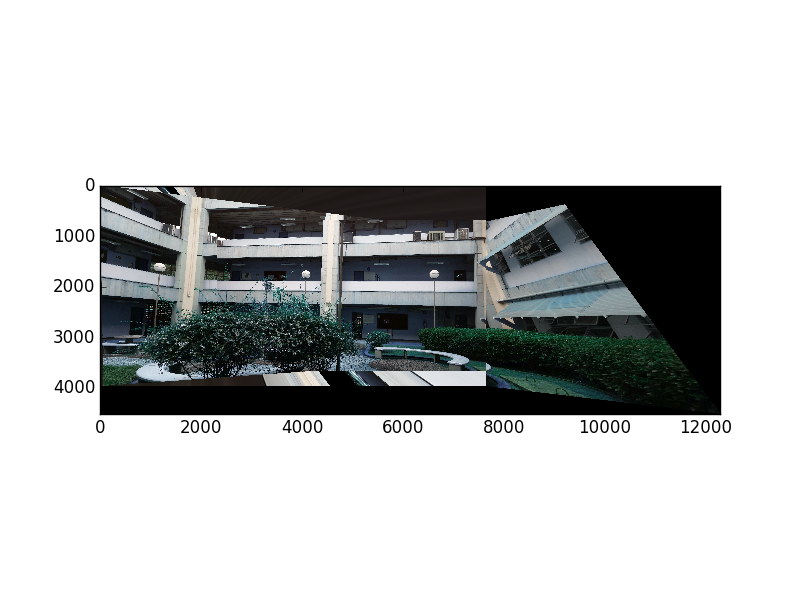
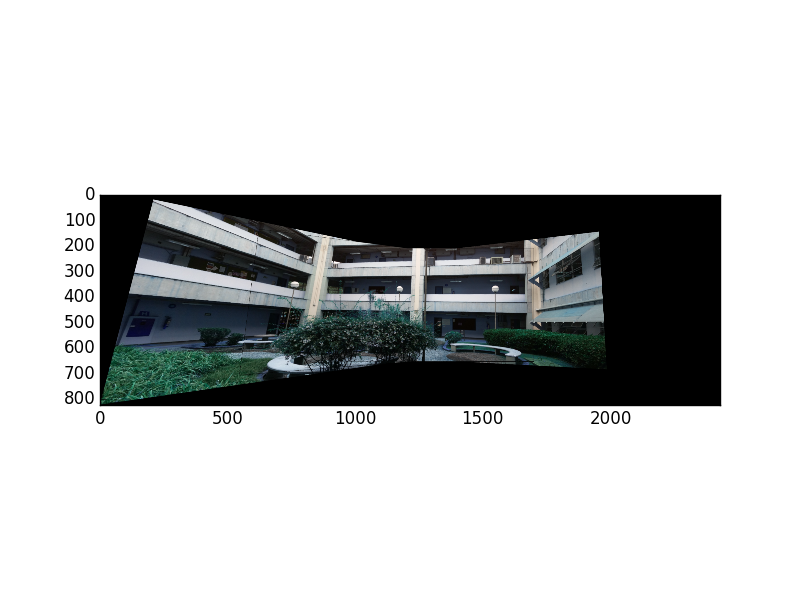
Starting warp perspective

Changed region(s): [[0.0625, 0.3, 0.9062, 0.72]]

diff --git a/tp2.py b/tp2.py
@@ -4,15 +4,15 @@ import numpy as np
 import math
 import matplotlib.pyplot as plt
 
-MASK_SIZE = 3000
+MASK_SIZE = 2000
 
-MAX_HEIGHT = 1000.00
+MAX_HEIGHT = 800.00
 
 SIFT_SIFT = 0
 FAST_BRIEF = 1
 ORB_ORB = 2
 
-CURRENT_METHOD = 2
+CURRENT_METHOD = 0
 
 IMG_COUNT = 6
 IMG_PREFIX = 'img'
@@ -110,7 +110,7 @@ class Method:
         print method
 
         if method == FAST_BRIEF:
-            self._detector = cv2.FastFeatureDetector(70)
+            self._detector = cv2.FastFeatureDetector()
             self._extractor = cv2.DescriptorExtractor_create("BRIEF")
             self._matcher = cv2.BFMatcher(cv2.NORM_HAMMING, crossCheck=True)
 
@@ -123,7 +123,7 @@ class Method:
             self._matcher = cv2.BFMatcher()
 
         if method == ORB_ORB:
-            self._detector = cv2.ORB(400)
+            self._detector = cv2.ORB(edgeThreshold=60)
             # HAMMING because orb create a set binary descriptors
             self._matcher = cv2.BFMatcher(cv2.NORM_HAMMING, crossCheck=True)
 
@@ -156,10 +156,10 @@ class ImageBlock:
 
         h, w = self._image.shape[:2]
 
-        if (Method().get_method() == SIFT_SIFT) or (Method().get_method() == FAST_BRIEF):
-            if h > MAX_HEIGHT:
-                scale = MAX_HEIGHT / h
-                self._image = cv2.resize(self._image, None, fx=scale, fy=scale)
+        # if (Method().get_method() == SIFT_SIFT) or (Method().get_method() == FAST_BRIEF):
+        if h > MAX_HEIGHT:
+            scale = MAX_HEIGHT / h
+            self._image = cv2.resize(self._image, None, fx=scale, fy=scale)
 
     def get_image(self):
         return self._image
@@ -184,21 +184,21 @@ class ImageBlock:
             mask.fill(255)
 
         if left is not None:
-            mask[:, :left] = 255
+            mask[:left, :] = 255
 
         if right is not None:
-            mask[:, :img_w - right] = 255
+            mask[:img_w - right, :] = 255
 
         # detecting key points and regions
         detector = Method().get_detector()
 
         print "detect " + self.get_path()
-        kp = detector.detect(gray, mask)
+        kp = detector.detect(gray)  # , mask)
         print "compute " + self.get_path()
         if Method().get_method() == FAST_BRIEF:
-            (kp, desc) = Method().get_extractor().compute(gray, kp, mask)
+            (kp, desc) = Method().get_extractor().compute(gray, kp)  # , mask)
         else:
-            (kp, desc) = detector.compute(gray, kp, mask)
+            (kp, desc) = detector.compute(gray, kp)  # , mask)
         self._keypoints = kp
         self._descriptors = desc
 
@@ -218,7 +218,7 @@ class ImageBlock:
             print 'Sorting'
             matches = sorted(matches, key=lambda x: x.distance)
             # for match in matches:
-            #     print match.distance
+            # print match.distance
             good = matches[:10]
             print 'finished sort'
 
@@ -249,9 +249,20 @@ class ImageBlock:
 
         return matrix_h
 
+    def warp(self, h, new_h, new_w):
+        img_h, img_w = self._image.shape[:2]
+        warped_img = np.zeros((new_h+1, new_w+1, 3), np.uint8)
+        w = 1
+        for y in range(img_h+1):
+            for x in range(img_w+1):
+                x1 = (h[0, 0]*x) + (h[1, 0]*y) + (h[2, 0]*w)
+                y1 = (h[0, 1]*x) + (h[1, 1]*y) + (h[2, 1]*w)
+                warped_img[y1, x1] = self._image[y, x]
+
+        return warped_img
+
 
 class Mosaic:
-
     @staticmethod
     def get_wrap_image(center_block, target):
         print "Matching " + center_block.get_path() + " and " + target.get_path()
@@ -274,13 +285,10 @@ class Mosaic:
 
         img_w = int(math.ceil(max_x))
         img_h = int(math.ceil(max_y))
-        target_img_wrp = cv2.warpPerspective(target.get_image(), mod_inv_h, (img_w, img_h))
-
-        # img = cv2.half()
-        # cv::Mat half(result,cv::Rect(0,0,image2.cols,image2.rows));
-        # show_image(target_img_wrp)
-
-        center_img_wrp = cv2.warpPerspective(center_block.get_image(), move_h, (img_w, img_h))
+        # target_img_wrp = cv2.warpPerspective(target.get_image(), mod_inv_h, (img_w, img_h))
+        target_img_wrp = target.warp(inv_homography, img_h, img_w)
+        # center_img_wrp = cv2.warpPerspective(center_block.get_image(), move_h, (img_w, img_h))
+        center_img_wrp = center_block.warp(homography, img_h, img_w)
 
         (ret, data_map) = cv2.threshold(cv2.cvtColor(center_img_wrp, cv2.COLOR_BGR2GRAY),
                                         0, 255, cv2.THRESH_BINARY)
@@ -323,24 +331,30 @@ class Mosaic:
         # for b, t in img_combinations:
 
         block34 = self.combine(block_list[3], block_list[2], 'img34.png')
-        block34.detect(left=MASK_SIZE)
-        block234 = self.combine(block34, block_list[1], 'img234.png')
-        del block34
+        show_image(block34.get_image())
 
-        block234.detect(right=MASK_SIZE)
-        block2345 = self.combine(block234, block_list[4], 'img2345.png')
-        del block234
-
-        block2345.detect(right=MASK_SIZE)
-        block23456 = self.combine(block2345, block_list[5], 'img123456.png')
-        del block2345
-
-        block23456.detect(left=MASK_SIZE)
-        block123456 = self.combine(block23456, block_list[0], 'img12345.png')
-        del block23456
-
-        show_image(block123456.get_image())
-        del block123456
+        # block34.detect(left=MASK_SIZE)
+        #
+        # block234 = self.combine(block34, block_list[1], 'img234.png')
+        # del block34
+        #
+        # block234.detect(right=MASK_SIZE)
+        #
+        # block2345 = self.combine(block234, block_list[4], 'img2345.png')
+        # del block234
+        #
+        # block2345.detect(right=MASK_SIZE)
+        #
+        # block23456 = self.combine(block2345, block_list[5], 'img23456.png')
+        # del block2345
+        #
+        # block23456.detect(left=MASK_SIZE)
+        #
+        # block123456 = self.combine(block23456, block_list[0], 'img123456.png')
+        # del block23456
+        #
+        # show_image(block123456.get_image())
+        # del block123456
 
 
 def get_dimensions(image, homography):
@@ -400,7 +414,7 @@ __author__ = 'gorigan'
 #
 # matches_mask = mask.ravel().tolist()
 #
-#     h, w = self._image.shape[:2]
+# h, w = self._image.shape[:2]
 #     pts = np.float32([[0, 0], [0, h - 1], [w - 1, h - 1], [w - 1, 0]]).reshape(-1, 1, 2)
 #     dst = cv2.perspectiveTransform(pts, homography)
 #
